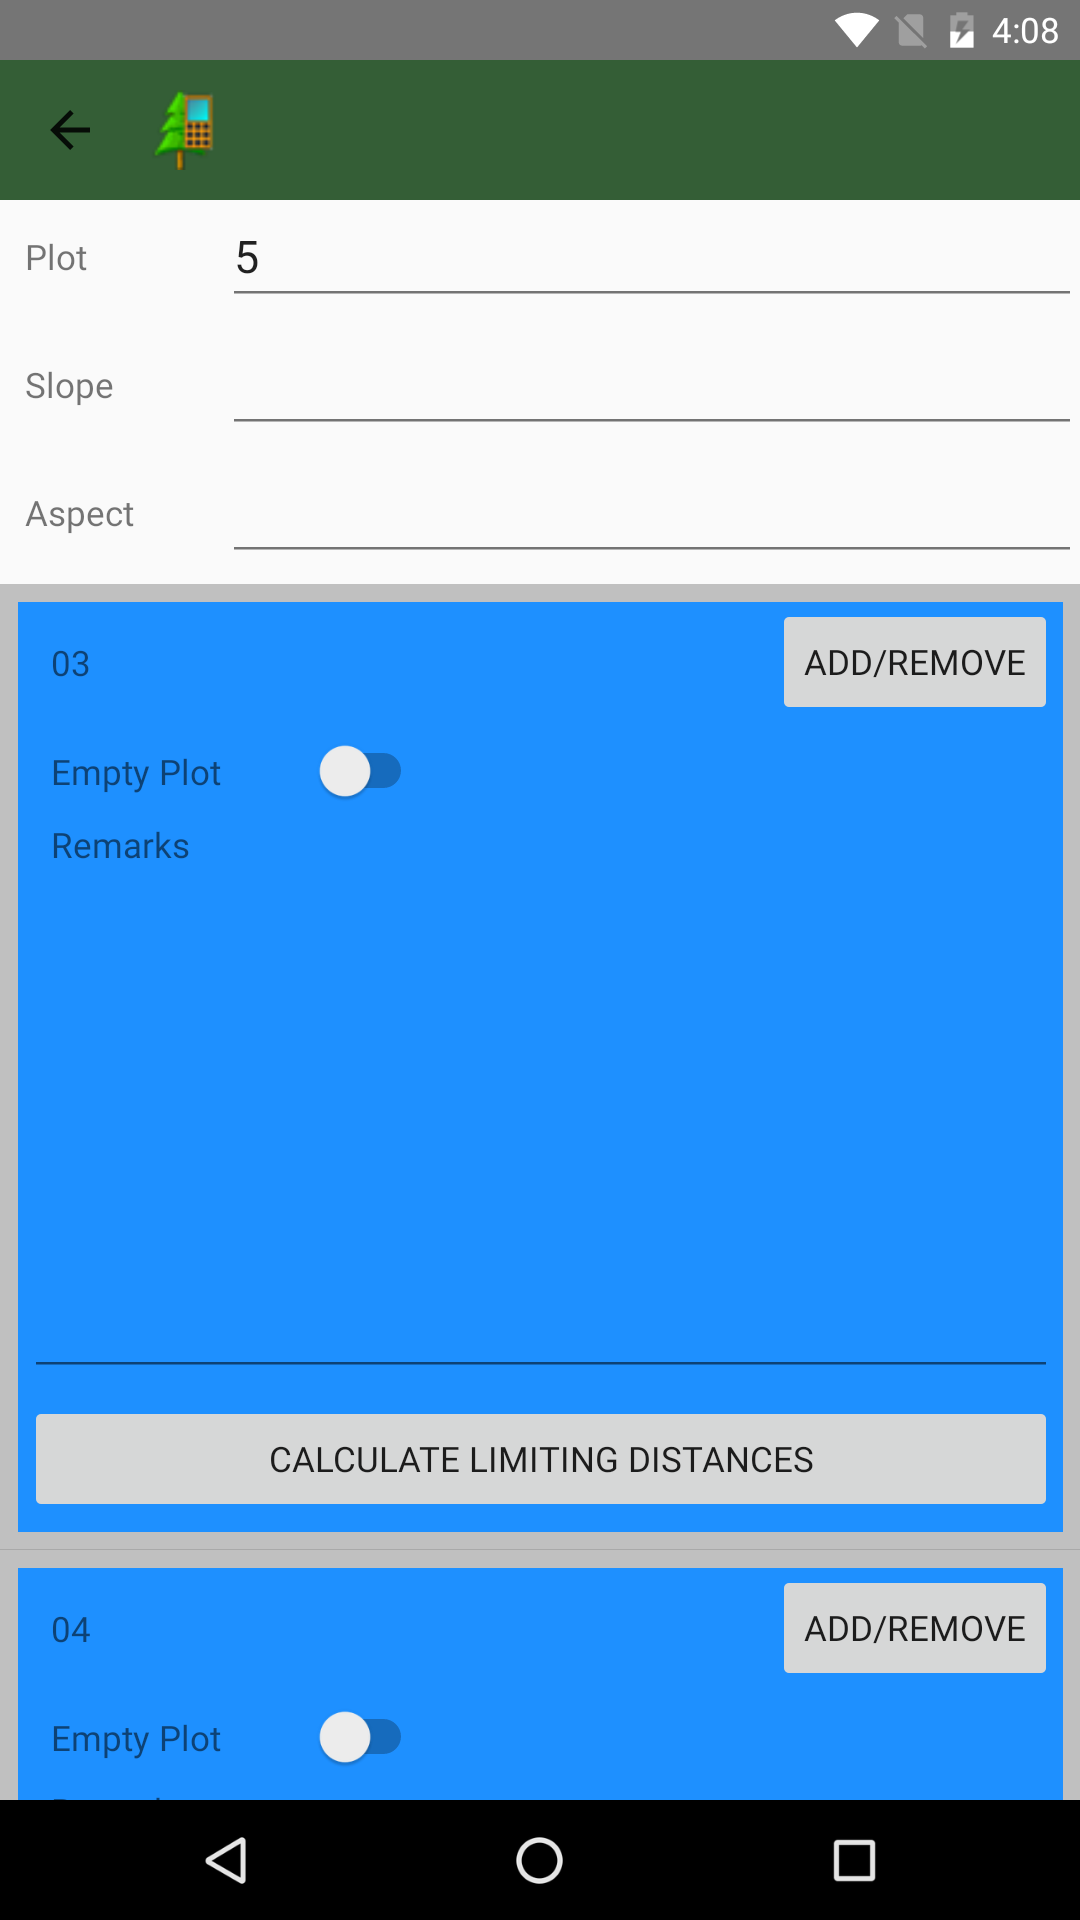
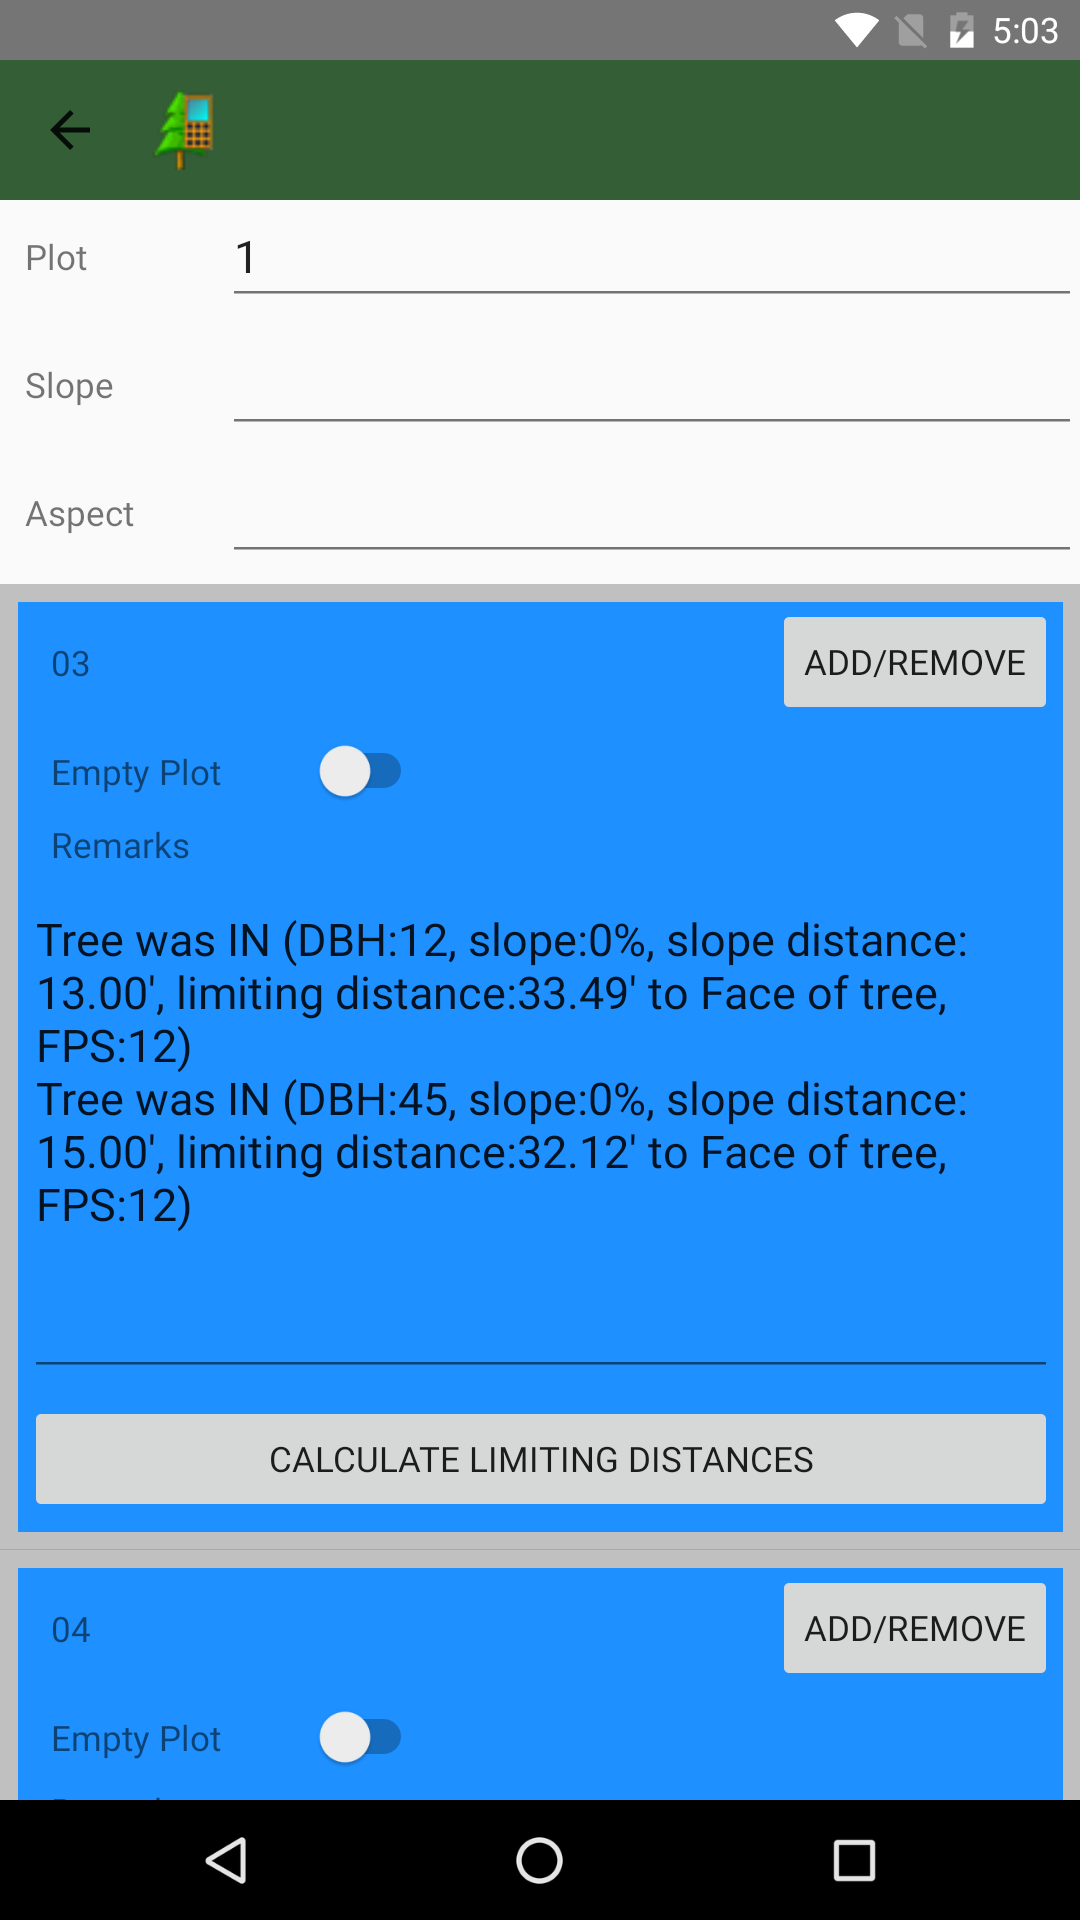
limiting distance, 2nd pass

Changed region(s): [[0.0306, 0.4688, 0.8861, 0.6562], [0.9167, 0.0, 0.9472, 0.0312], [0.2139, 0.125, 0.2444, 0.1562]]

diff --git a/source/FScruiser.Xamarin/Pages/LimitingDistancePage.xaml b/source/FScruiser.Xamarin/Pages/LimitingDistancePage.xaml
@@ -27,7 +27,7 @@
                     </StackLayout>
                     <StackLayout Orientation="Horizontal">
                         <Label>BAF/FPS</Label>
-                        <Entry x:Name="_bafOrFpsEntry" Text="{Binding BafOrFps}">
+                        <Entry x:Name="_bafOrFpsEntry" Text="{Binding BafOrFps}" Keyboard="Numeric">
                             <Entry.Effects>
                                 <tk_effects:EntrySelectAllText />
                             </Entry.Effects>
@@ -41,7 +41,7 @@
                         <StackLayout>
                             <StackLayout Orientation="Horizontal">
                                 <Label>Slope Distance</Label>
-                                <Entry x:Name="_slopeDistanceEntry" Text="{Binding SlopeDistance}">
+                                <Entry x:Name="_slopeDistanceEntry" Text="{Binding SlopeDistance}" Keyboard="Numeric">
                                     <Entry.Effects>
                                         <tk_effects:EntrySelectAllText />
                                     </Entry.Effects>
@@ -56,7 +56,7 @@
                     <Frame BackgroundColor="Yellow">
                         <StackLayout Orientation="Horizontal">
                             <Label >DBH</Label>
-                            <Entry x:Name="_dbhEntry" Text="{Binding DBH}">
+                            <Entry x:Name="_dbhEntry" Text="{Binding DBH}" Keyboard="Numeric">
                                 <Entry.Effects>
                                     <tk_effects:EntrySelectAllText />
                                 </Entry.Effects>
@@ -66,7 +66,7 @@
                     <Frame BackgroundColor="Yellow">
                         <StackLayout Orientation="Horizontal">
                             <Label>Slope (%)</Label>
-                            <Entry x:Name="_slopePctEntry" Text="{Binding SlopePCT}">
+                            <Entry x:Name="_slopePctEntry" Text="{Binding SlopePCT}" Keyboard="Numeric">
                                 <Entry.Effects>
                                     <tk_effects:EntrySelectAllText />
                                 </Entry.Effects>
@@ -80,7 +80,7 @@
                     <Frame BackgroundColor="Yellow">
                         <StackLayout Orientation="Horizontal">
                             <Label>Azimuth</Label>
-                            <Entry x:Name="_azimuthEntry" Text="{Binding Azimuth}">
+                            <Entry x:Name="_azimuthEntry" Text="{Binding Azimuth}" Keyboard="Numeric">
                                 <Entry.Effects>
                                     <tk_effects:EntrySelectAllText />
                                 </Entry.Effects>

diff --git a/source/FScruiser.Xamarin/Pages/PlotEditPage.xaml b/source/FScruiser.Xamarin/Pages/PlotEditPage.xaml
@@ -50,8 +50,9 @@
                                         <Switch IsToggled="{Binding IsEmpty}" />
                                     </StackLayout>
                                     <Label Text="Remarks" VerticalTextAlignment="End" Margin="10,0,30,0"/>
-                                    <Entry 
+                                    <Editor 
                                         Text="{Binding StratumPlot.Remarks}" 
+                                        IsSpellCheckEnabled="False"
                                         HorizontalOptions="FillAndExpand" HeightRequest="200"  />
                                     <Button Text="Calculate Limiting Distances" 
                                         VerticalOptions="FillAndExpand" 
